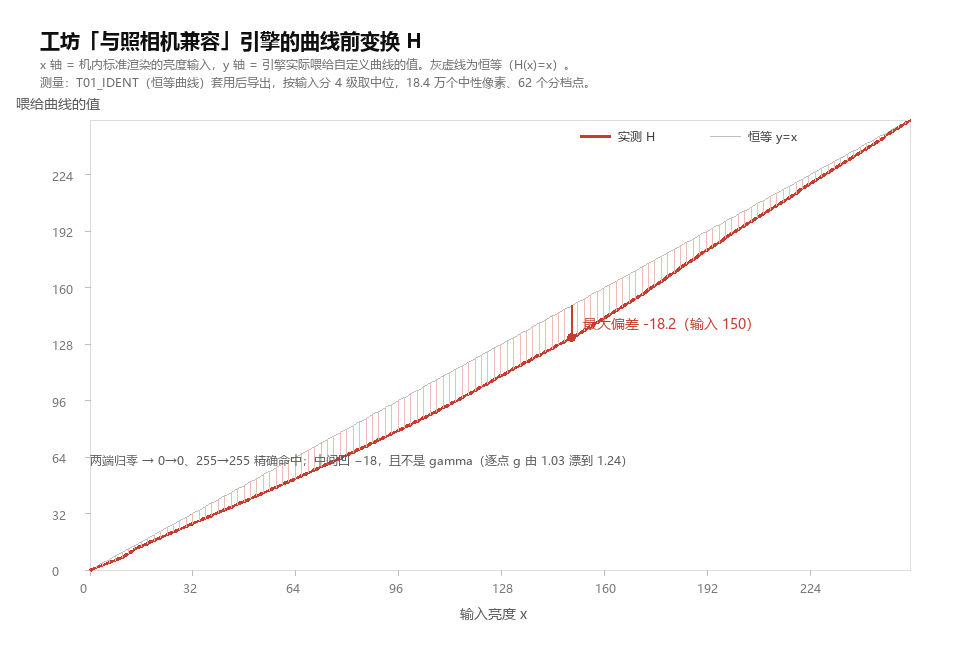
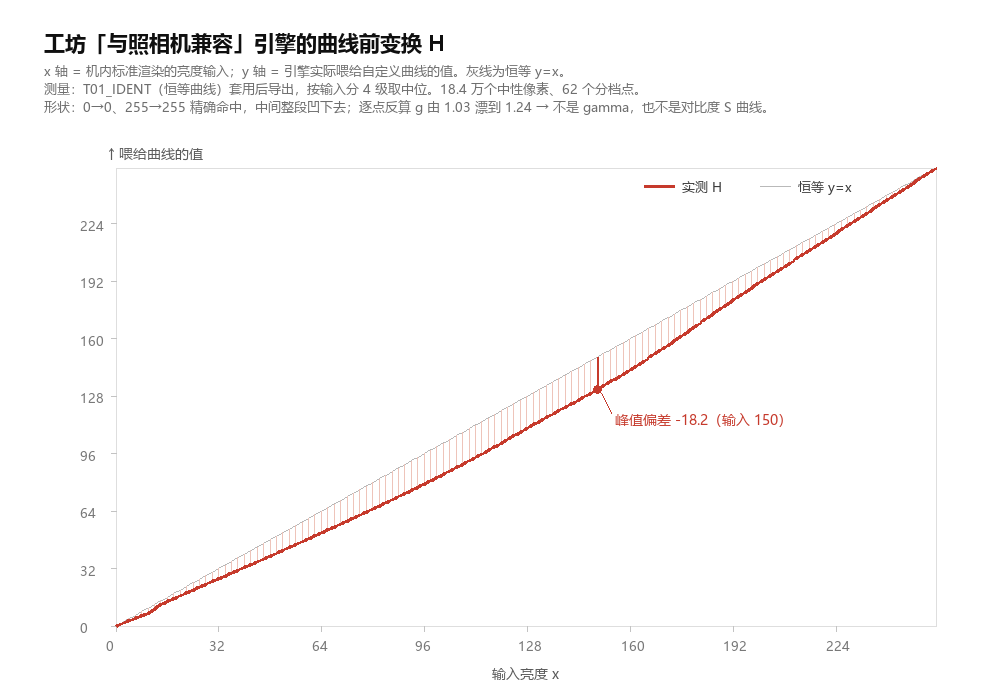
d300: 重排 H 曲线图（轴标题/图例/峰值标注不再压曲线），峰值统一为 -18.2

diff --git a/d300/README.md b/d300/README.md
@@ -157,7 +157,7 @@ T01 套用后**不等于**机身：中间调暗 18 级，两端归零。而 T02 
 - 测量条件：921600 像素、其中 184262 个中性像素（色度 <0.12）、4 级分档取中位、62 个分档点
 - **不是 gamma**：逐点反算的 g 从 1.03 漂到 1.24，不恒定
 - **不是对比度 S 曲线**：暗部反而变亮（+2），高光也变亮，只有中间塌
-- 两端精确归零（0→0、255→255），中间最大 −18.1
+- 两端精确归零（0→0、255→255），峰值偏差 **−18.2（输入 150）**
 
 完整 62 点表见 `tools/compensate.py` 的 `H_PTS`。
 
